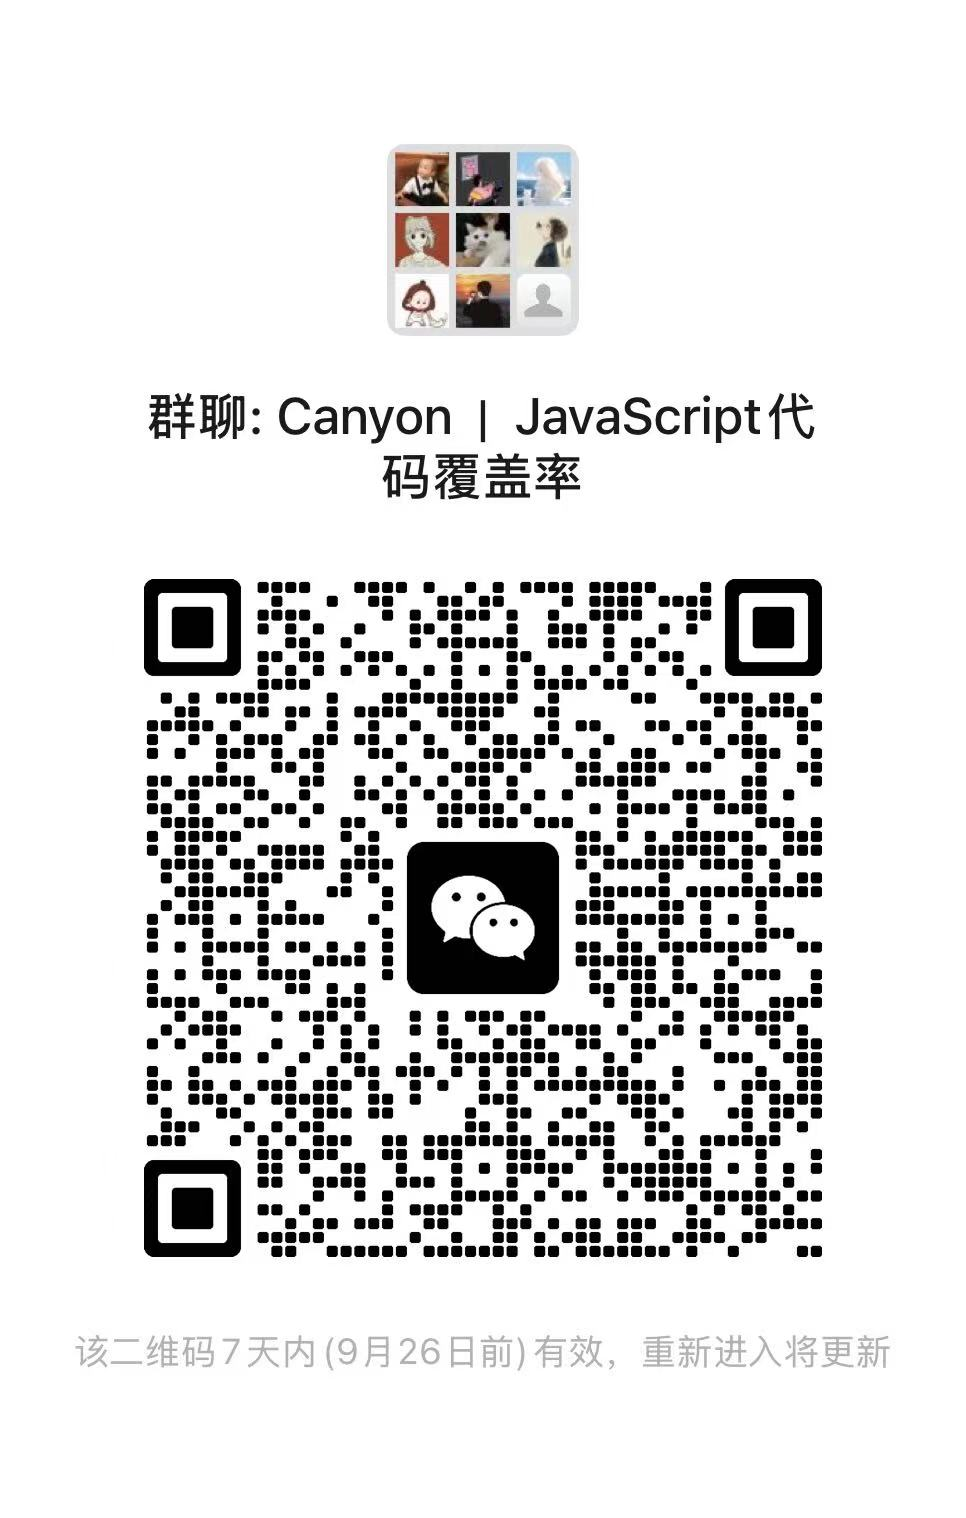
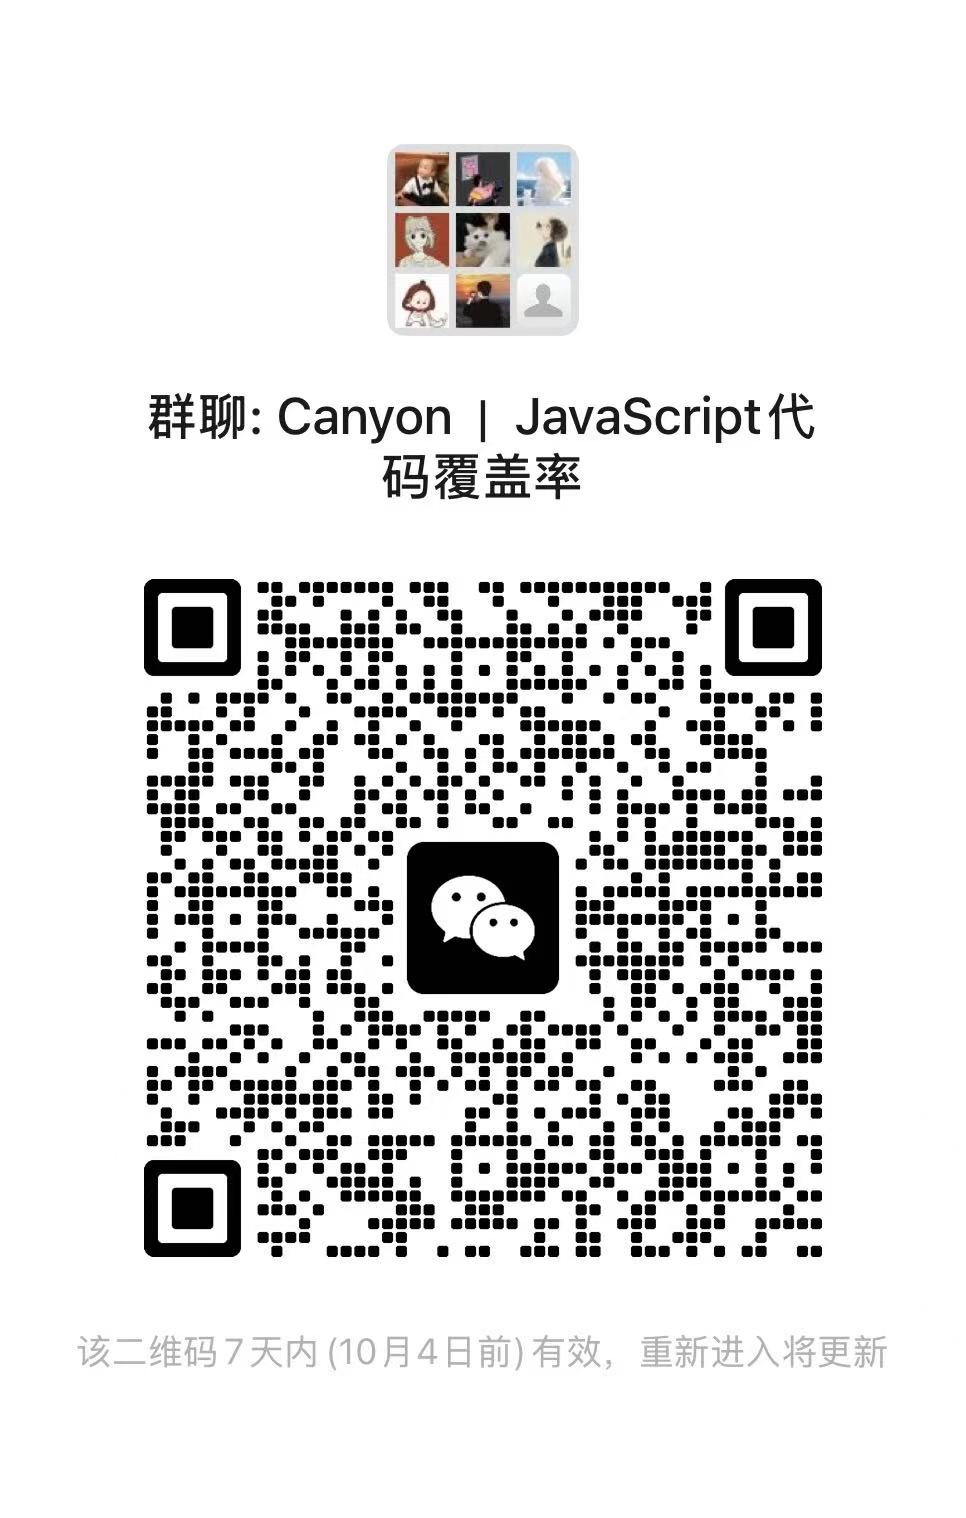
chore: daily development

diff --git a/README.md b/README.md
@@ -62,7 +62,7 @@ Canyon (pronounced /ˈkænjən/) is a JavaScript code coverage collection platfo
 
 ## WeChat Group
 
-<img src="./screenshots/wechat46.jpg" style="width: 200px"/>
+<img src="./screenshots/wechat47.jpg" style="width: 200px"/>
 
 ## Developing
 
